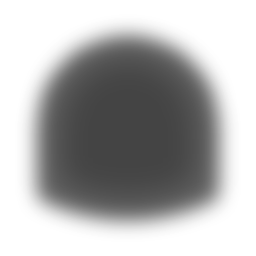
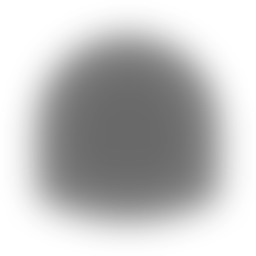
Softer footprint shadow

diff --git a/fork/floating-media/gen.py b/fork/floating-media/gen.py
@@ -1355,11 +1355,11 @@ def shadow_set(kind, outline, T):
     sx, sy = (n * (1 - 2 * margin)) / w, (n * (1 - 2 * margin)) / h
     sc = min(sx, sy)
     pts = [(n / 2 + (x - cx_) * sc, n / 2 - (y - cy_) * sc) for x, y in outline]
-    ImageDraw.Draw(img).polygon(pts, fill=(0, 0, 0, 150))
-    img = img.filter(ImageFilter.GaussianBlur(9))
+    ImageDraw.Draw(img).polygon(pts, fill=(0, 0, 0, 110))
+    img = img.filter(ImageFilter.GaussianBlur(16))
     core = Image.new("RGBA", (n, n), (0, 0, 0, 0))
-    ImageDraw.Draw(core).polygon([(n / 2 + (x - cx_) * sc * 0.8, n / 2 - (y - cy_) * sc * 0.8) for x, y in outline], fill=(0, 0, 0, 90))
-    img.alpha_composite(core.filter(ImageFilter.GaussianBlur(16)))
+    ImageDraw.Draw(core).polygon([(n / 2 + (x - cx_) * sc * 0.8, n / 2 - (y - cy_) * sc * 0.8) for x, y in outline], fill=(0, 0, 0, 70))
+    img.alpha_composite(core.filter(ImageFilter.GaussianBlur(22)))
     img.save(f"{OUT}/float_{kind}_shadow.png")
     ext_x = (n / 2) / sc          # half extent of the quad in model units (texture edge to edge)
     for k in range(SHADOW_STEPS):
